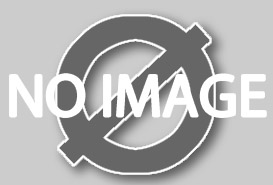
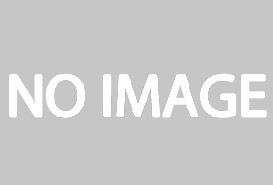
Circle slash removed No Thanks removed Clock time fixed JS clock test landingPage graphic added

diff --git a/app/assets/stylesheets/landingPage.css b/app/assets/stylesheets/landingPage.css
@@ -66,10 +66,10 @@
 	padding-left: 14px;
 }
 .curtail{
-	width:  100%;
+	max-width:  100%;
 	height:  100%;
 	margin-top:  8px;
-	padding:  30px 0px 30px 30px;
+	padding:  30px 30px 30px 30px;
 	overflow:  auto;
 }
 .landingImage{
@@ -117,10 +117,12 @@
 	transition: background-color 0.08s ease-in;
 }
 #guts{
-  margin:  20px 25px 0px 5%;
+  margin:  20px 0px 0px 5%;
+  max-width:  100%;
 }
 #row-1{
   clear:both;
+  max-width:  100%;
   background-color:  #DDD;
   border-radius:  12px 12px 12px 12px;
   border:  1px solid #DDD;  
@@ -150,7 +152,7 @@ filter: progid:DXImageTransform.Microsoft.gradient( startColorstr='#ebf1f6', end
 }
 #row0{
   clear:both;
-  height:  400px;
+  height:  200px;
   text-align:  center;
   text-shadow: 2px 2px 1px #EEE;
   background-color:  #DDD;
@@ -158,12 +160,11 @@ filter: progid:DXImageTransform.Microsoft.gradient( startColorstr='#ebf1f6', end
 }
 #row0 span{
   position:  relative;
-  top:  130px;
+  top:  50px;
 }
 #row1{ 
   clear:  both;
   background-color:  #888;
-  width:  100%;
   border-radius:  12px 12px 12px 12px;
 }
 #row1Title{
@@ -215,14 +216,18 @@ filter: progid:DXImageTransform.Microsoft.gradient( startColorstr='#ebf1f6', end
 }
 #row2{
   clear:  both;
-  height:  400px;
+  height:  200px;
   background-color:  #d6e0ed;
   border-radius:  12px 12px 12px 12px;
 }
 #row2 span{
-  position:  relative;
-  top:  130px;
+  float:  left;
+  max-width:  80%;
+  text-align:  left;
   text-shadow: 1px 1px 1px #FFF;
+}
+#row2 img{
+  float:  right;
 }
 #row3{
   clear:  both;
@@ -234,20 +239,38 @@ filter: progid:DXImageTransform.Microsoft.gradient( startColorstr='#ebf1f6', end
   background-color:  #DDD;
   border-radius:  12px 12px 12px 12px;
 }
+#row4 table{
+  max-width:  100%;
+}
 #contactUs{
 	float:  left; 
-	max-width:  65%;
+	min-width:  100%;
 	text-align:  center;
 	vertical-align:  middle;
 }
 #row4Form{
 	margin-top:  -40px;
 }
-#container{
-	float:  right;
-	padding-left:  14px;
-	max-width:  100%;
-	overflow:  auto;
+#tryNow{
+	margin:  8px 0px 8px 8px;
+	padding:  8px 8px 8px 8px;
+	min-width:  100%;
+	min-height:  100%;
+	float:  left;
+	color:  #FFF;
+	text-shadow: 1px 1px 1px #333;
+	border:  1px solid #BBB;
+	border-radius:  16px;
+	background: rgb(180,227,145); /* Old browsers */
+/* IE9 SVG, needs conditional override of 'filter' to 'none' */
[1 lines of base64/hex data omitted]
+background: -moz-linear-gradient(top, rgba(180,227,145,1) 0%, rgba(97,196,25,1) 50%, rgba(180,227,145,1) 100%); /* FF3.6+ */
+background: -webkit-gradient(linear, left top, left bottom, color-stop(0%,rgba(180,227,145,1)), color-stop(50%,rgba(97,196,25,1)), color-stop(100%,rgba(180,227,145,1))); /* Chrome,Safari4+ */
+background: -webkit-linear-gradient(top, rgba(180,227,145,1) 0%,rgba(97,196,25,1) 50%,rgba(180,227,145,1) 100%); /* Chrome10+,Safari5.1+ */
+background: -o-linear-gradient(top, rgba(180,227,145,1) 0%,rgba(97,196,25,1) 50%,rgba(180,227,145,1) 100%); /* Opera 11.10+ */
+background: -ms-linear-gradient(top, rgba(180,227,145,1) 0%,rgba(97,196,25,1) 50%,rgba(180,227,145,1) 100%); /* IE10+ */
+background: linear-gradient(to bottom, rgba(180,227,145,1) 0%,rgba(97,196,25,1) 50%,rgba(180,227,145,1) 100%); /* W3C */
+filter: progid:DXImageTransform.Microsoft.gradient( startColorstr='#b4e391', endColorstr='#b4e391',GradientType=0 ); /* IE6-8 */
 }
 #featuredPartner{ 
 	clear:  right;

diff --git a/app/assets/javascripts/clocks.js b/app/assets/javascripts/clocks.js
@@ -6,51 +6,46 @@ var currentMinutes = currentTime.getMinutes ();
 var currentSeconds = currentTime.getSeconds ();
 
 //Calculate Hours Postition
-var currentHoursPosition = 17;
+var currentHoursPosition = 0;
 if ( currentHours > 0 && currentHours < 13){
-	if (currentHours < 7 ){ 
-		currentHoursPosition = 17; 
+	if (currentHours < 8 ){ 
+		currentHoursPosition = 0;
 		$("#counterBG1").css( "color", "#990000");
 	}
-	else if (currentHours < 8 ){ 
-		currentHoursPosition = 15; 
+	else if ( currentHours === 8 ){ 
+		currentHoursPosition = 0;
 	}
-	else if (currentHours < 9 ){ 
-		currentHoursPosition = 30;
-		$("#counterBG1").css( "color", "#990000");			
+	else if (currentHours === 9 ){ 
+		currentHoursPosition = 0;//30
+		$("#counterBG1").css( "color", "#990000");
 	}
-	else if (currentHours < 10 ){ 
-		currentHoursPosition = 65; 
-		$("#counterBG1").css( "color", "#990000"); 
+	else if (currentHours === 10 ){ 
+		currentHoursPosition = 0;//65
+		$("#counterBG1").css( "color", "#990000");
 	}
-	else if (currentHours < 11 ){ 
-		currentHoursPosition = 98; 
+	else if (currentHours === 11 ){ 
+		currentHoursPosition = 0;//98
 	}
-	else if (currentHours < 12 ){ 
-		currentHoursPosition = 132;
+	else if (currentHours === 12 ){ 
+		currentHoursPosition = 0;//132
 	}
-	else if (currentHours < 13 ){ 
-		currentHoursPosition = 166; 
-	}
-	else { currentHoursPosition = 17; 
-		$("#counterBG1").css( "color", "#990000"); 
+	else { 
+		currentHoursPosition = 0;
+		$("#counterBG1").css( "color", "#990000");
 	}
 }
 else { 
-	currentHoursPosition = 166;
+	currentHoursPosition = 0;//166
 	$("#counterBG1").css( "color", "#666666");
 }
 
 //Calculate Minutes Postition
-var currentMinutesPosition = Math.round( parseInt(currentMinutes) / 2);
-if ( 0 < currentHours && currentHours < 7 ){
-	currentMinutesPosition = 0; 
-}
-else if (currentHours > 11){
-	currentMinutesPosition = 0; 
+var currentMinutesPosition = 0;
+if ( currentHours > 8 && currentHours < 12){
+	currentMinutesPosition = Math.round( parseInt(currentMinutes) / 2); 
 }
 else{
-	currentMinutesPosition = Math.round( parseInt(currentMinutes) / 2);
+	currentMinutesPosition = 0;
 }
 
 var updatedValue = 0;

diff --git a/app/assets/stylesheets/newOrder.css b/app/assets/stylesheets/newOrder.css
@@ -69,9 +69,13 @@
 #termsBox{
   width:  50%;
   border:  1px solid gray;
-  margin-bottom:  8px;
+  margin:  8px 0px 8px 0px;
   padding:  12px 8px 8px 8px;
   background-color:  #FAFAFA
+}
+#termsBoxContainer{
+  display:  inline;
+  margin: 0px 0px 0px 30px;
 }
 #termsBoxInfo{
   display:  none;

diff --git a/config/application.rb b/config/application.rb
@@ -27,7 +27,7 @@ module Depot
 
     # Set Time.zone default to the specified zone and make Active Record auto-convert to this zone.
     # Run "rake -D time" for a list of tasks for finding time zone names. Default is UTC.
-    # config.time_zone = 'Central Time (US & Canada)'
+    config.time_zone = 'Mountain Time (US & Canada)'
 
     # The default locale is :en and all translations from config/locales/*.rb,yml are auto loaded.
     # config.i18n.load_path += Dir[Rails.root.join('my', 'locales', '*.{rb,yml}').to_s]

diff --git a/app/controllers/orders_controller.rb b/app/controllers/orders_controller.rb
@@ -28,7 +28,6 @@ class OrdersController < ApplicationController
   # GET /orders/new
   # GET /orders/new.json
   def new
-	Time.zone = 'MST'
 	@cart = current_cart
 	currentTime = Time.zone.now
 	tomorrow = Time.zone.today + 1.day
